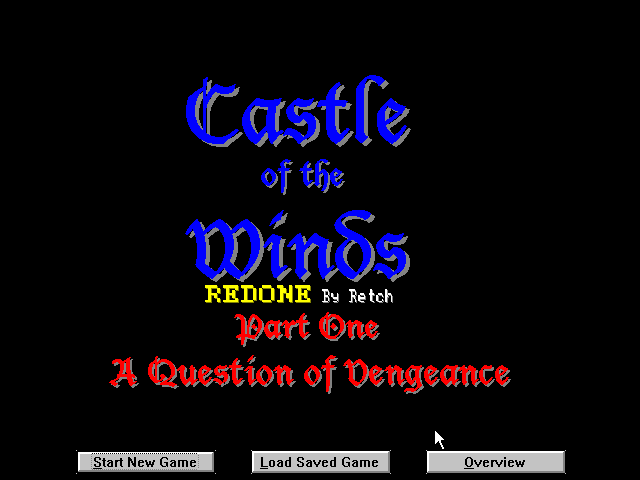
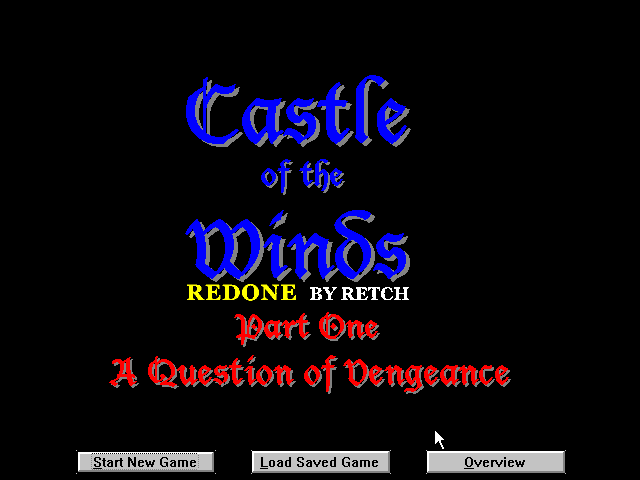
Use a gold serif wordmark and bold white BY RETCH credit

Changed region(s): [[0.2812, 0.5938, 0.6562, 0.6562]]

diff --git a/tools/redone/title_art.py b/tools/redone/title_art.py
@@ -1,6 +1,8 @@
 """Add Redone lettering to the original Win16 title bitmap."""
 
 from hashlib import sha256
+import json
+from pathlib import Path
 from struct import pack_into, unpack_from
 
 from color_resources import _read_resources, _word
@@ -9,20 +11,7 @@ from color_resources import _read_resources, _word
[1 lines of base64/hex data omitted]
 
 
-GLYPHS = {
-    'R': ('####.', '.#..#', '.#..#', '.###.', '.#.#.', '.#..#', '##..#'),
-    'E': ('#####', '.#..#', '.#.#.', '.###.', '.#.#.', '.#..#', '#####'),
-    'D': ('####.', '.#..#', '.#..#', '.#..#', '.#..#', '.#..#', '####.'),
-    'O': ('.###.', '#...#', '#...#', '#...#', '#...#', '#...#', '.###.'),
-    'N': ('##..#', '.##.#', '.##.#', '.#.##', '.#.##', '.#..#', '##..#'),
-    'B': ('####.', '.#..#', '.#..#', '.###.', '.#..#', '.#..#', '####.'),
-    'y': ('.....', '.....', '#...#', '#...#', '.####', '....#', '.###.'),
-    'e': ('.....', '.....', '.###.', '#...#', '#####', '#....', '.###.'),
-    't': ('..#..', '..#..', '.####', '..#..', '..#..', '..#..', '...##'),
-    'c': ('.....', '.....', '.###.', '#...#', '#....', '#...#', '.###.'),
-    'h': ('#....', '#....', '#.##.', '##..#', '#...#', '#...#', '#...#'),
-    ' ': ('.....',) * 7,
-}
+WORDMARK = Path(__file__).with_name('title_wordmark.json')
 
 
 def decode_rows(body):
@@ -101,32 +90,23 @@ def encode_rows(rows):
     return stream
 
 
-def letter(rows, text, left, top, width, height, tracking, face, shade):
-    points = []
-    for index, symbol in enumerate(text):
-        start = left + index * (width + tracking)
-        glyph = GLYPHS[symbol]
-        for y in range(height):
-            line = glyph[y * 7 // height]
-            for x in range(width):
-                if line[x * 5 // width] == '#':
-                    points.append((start + x, top + y))
-    if any(rows[y][x] or rows[y + 1][x + 1] for x, y in points):
-        raise ValueError('Redone lettering would overlap original splash artwork')
-    for x, y in points:
-        rows[y + 1][x + 1] = shade
-    for x, y in points:
-        rows[y][x] = face
-
-
 def paint_bitmap(original):
     rows = decode_rows(original)
-    # Center the two words as a group on the original logo's 198px centerline.
-    # Both sit on the same baseline, with the smaller byline offset by a 12px gap.
-    letter(rows, 'REDONE', 105, 212, 15, 17, 3, 11, 3)
-    letter(rows, 'By Retch', 222, 216, 7, 13, 2, 15, 7)
-    stream = encode_rows(rows)
+    overlay = json.loads(WORDMARK.read_bytes())
+    shades = {int(index): bytes.fromhex(rgb) for index, rgb in overlay['palette'].items()}
     body = bytearray(original[:104])
+    for index, rgb in shades.items():
+        start = 40 + index * 4
+        if body[start:start + 3] != rgb[::-1]:
+            raise ValueError('Redone lettering must use the original VGA palette')
+    for y, marks in enumerate(overlay['rows'], overlay['top']):
+        for x, mark in enumerate(marks, overlay['left']):
+            color = int(mark, 16)
+            if color:
+                if color not in shades or rows[y][x]:
+                    raise ValueError('Redone lettering would overlap original splash artwork')
+                rows[y][x] = color
+    stream = encode_rows(rows)
     pack_into('<I', body, 20, len(stream))
     body.extend(stream)
     if len(body) > len(original) or decode_rows(body) != rows:

diff --git a/tools/redone/test_title_art.py b/tools/redone/test_title_art.py
@@ -22,12 +22,13 @@ class TitleArtTests(unittest.TestCase):
                 restored = bytearray(painted)
                 self.assertEqual(old.offset, new.offset)
                 self.assertEqual(old.body[40:104], new.body[40:104])
-                rows = zip(decode_rows(old.body), decode_rows(new.body), strict=True)
+                original_rows = decode_rows(old.body)
+                rows = zip(original_rows, decode_rows(new.body), strict=True)
                 changes = [(y, original, replacement) for y, (previous, current) in enumerate(rows)
                            for original, replacement in zip(previous, current, strict=True)
                            if original != replacement]
                 self.assertGreater(len(changes), 40)
-                self.assertTrue(all(212 <= y < 230 and original == 0 for y, original, _ in changes))
-                self.assertEqual({pixel for _, _, pixel in changes}, {3, 7, 11, 15})
+                self.assertTrue(all(210 <= y < 230 and original == 0 for y, original, _ in changes))
+                self.assertEqual({pixel for _, _, pixel in changes}, {3, 11, 15})
                 restored[old.offset:old.offset + len(old.body)] = old.body
                 self.assertEqual(bytes(restored), data)

diff --git a/docs/verification/Redone-v1.1.md b/docs/verification/Redone-v1.1.md
@@ -10,6 +10,6 @@ On 64-bit Windows, all six v1.1 setup executables ran with their windows withdra
 - Compared Warm Stone and Dark Slate All-in-One output with v1.0 and verified in-place restoration to Classic
 - Verified new `.bak` theme backups and restoration from legacy `.bin` backups, then upgraded the restored v1.0 install to v1.1
 - Verified error messages and destination protection with a malformed ZIP, a missing Help file, an altered game executable, and an existing destination
-- Captured the actual title screens in Windows 3.1 on a private DOSBox display. [Part I](screenshots/Redone-Title-Part-I.png) · [Part II](screenshots/Redone-Title-Part-II.png)
+- Captured the actual title screens and loaded an existing save from each in Windows 3.1 on a private DOSBox display. [Part I](screenshots/Redone-Title-Part-I.png) · [Part II](screenshots/Redone-Title-Part-II.png)
 
 Game behavior is covered by the [original v1.0 checks](Redone-v1.0.md) and the [v1.0 refresh checks](Redone-v1.0-refresh.md). The title changes preserve the original game code and artwork outside the blank band below the blue logo. The v1.1 checks did not rerun the campaigns.

diff --git a/README.md b/README.md
@@ -2,7 +2,7 @@
 
 Five mods for both adventures of the original Win16 *Castle of the Winds* v1.1A, by **RetchERezzed**.
 
-Every v1.1 package adds **REDONE** in gold and **By Retch** in smaller white lettering on one line below the original title logo.
+Every v1.1 package adds **REDONE** in gold and **BY RETCH** in bold white on one line below the original title logo.
 
 [Download Redone v1.1](https://github.com/RetchERez/CastleOfTheWindsRedone/releases/tag/redone-v1.1)
 
